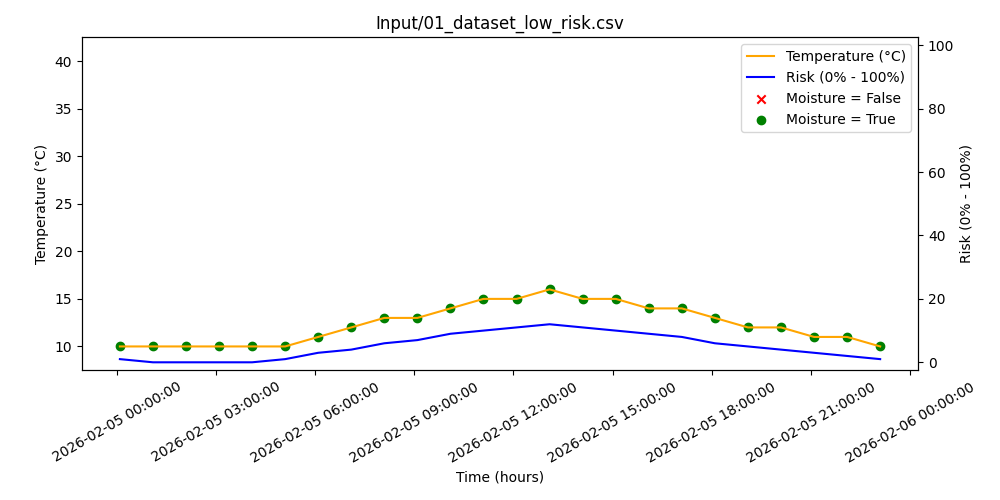
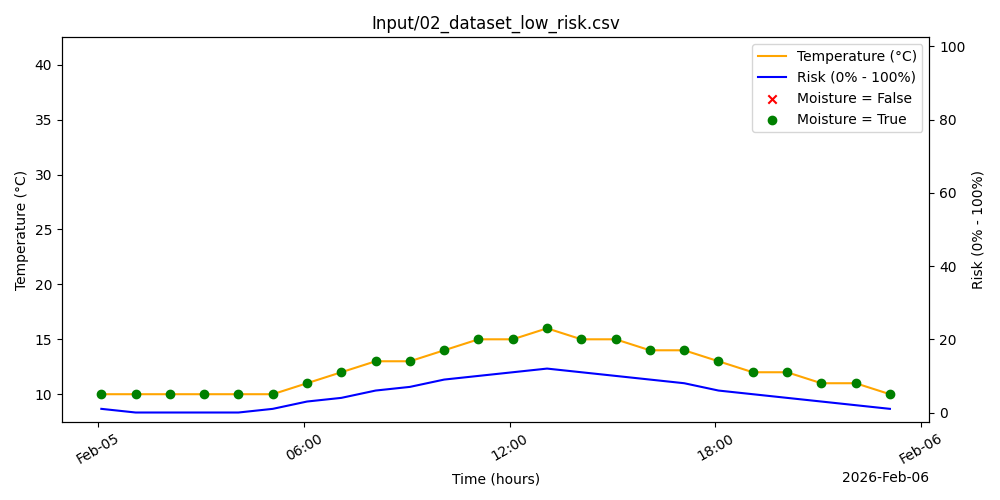
MultiAxesGraph.py: Setups

diff --git a/wildfire_risk.py b/wildfire_risk.py
@@ -64,9 +64,6 @@ def main():
         print("Verbose mode enabled")
         print(f"Current mode is {args.mode}")
 
-
-    print(f"Sampling interval: {args.interval} hours")
-
     if args.mode == "realtime":
         start_realtime_mode(args)
     else:
@@ -91,8 +88,15 @@ def start_realtime_mode(args: Namespace):
     if args.savefig:
         graph_period = seconds_convertor(args.savefig, args.time_units)
 
+    if args.verbose:
+        print(f"Generating one record per {serial_period} seconds")
+        if graph_period:
+            print(f"Generating one image per {graph_period} seconds")
+        else:
+            print("No graphs will be printed")
+
     try:
-        serial_reader = SerialReader(serial_period=serial_period, serial_epsilon=serial_period * (3 / 5), graph_period=graph_period, fieldnames=list(zip(fieldnames, is_digital)),
+        serial_reader = SerialReader(serial_period=serial_period, graph_period=graph_period, fieldnames=list(zip(fieldnames, is_digital)),
                                      expr=r"^[0-9]+,[0-9]+$", verbose=args.verbose)
     except ValueError:
         print("The embedded system (micro:bit) has not been connected.")

diff --git a/Tools/SerialReader.py b/Tools/SerialReader.py
@@ -16,7 +16,7 @@ class SerialReader(Subject):
     _observers: List[Observer] = []
     _graph_observers: List[GraphObserver] = []
 
-    def __init__(self, serial_period: float, serial_epsilon: float, fieldnames: List[Tuple[str, bool]], expr: str, verbose: bool = False, graph_period: float = None):
+    def __init__(self, serial_period: float, fieldnames: List[Tuple[str, bool]], expr: str, verbose: bool = False, graph_period: float = None):
         port = mb_detect.find()
 
         if port:
@@ -24,7 +24,6 @@ class SerialReader(Subject):
         else:
             raise ValueError("Serial port not found!")
         self.serial_period = serial_period
-        self.serial_epsilon = serial_epsilon
         self.graph_period = graph_period
         self.expr = expr
         self.__is_digital = [d for _, d in fieldnames]
@@ -102,5 +101,5 @@ class SerialReader(Subject):
 
 
 if __name__ == "__main__":
-    serial = SerialReader(10, 4, [("utc", False), ("temp", False), ("moist", True), ("risk", False)], r"^[0-9]+,[0-9]+$")
+    serial = SerialReader(10, [("utc", False), ("temp", False), ("moist", True), ("risk", False)], r"^[0-9]+,[0-9]+$")
     serial.read()

diff --git a/Grapher/MultiAxesGraph.py b/Grapher/MultiAxesGraph.py
@@ -20,8 +20,14 @@ class MultiAxesGraph(MatplotlibGraph):
         self._fig, self.ax1 = plt.subplots(figsize=(10, 5))
         self.ax1.tick_params(axis="x", rotation=30)
         self.ax1.set_title(title)
+
+        locator = m_dates.AutoDateLocator(minticks=3, maxticks=7)
+        formatter = m_dates.ConciseDateFormatter(locator)
+
         self.ax1.xaxis.set_major_formatter(m_dates.DateFormatter('%Y-%m-%d %H:%M:%S'))
-        self.ax1.xaxis.set_major_locator(m_dates.DayLocator(interval=7))
+        self.ax1.xaxis.set_major_locator(locator)
+        self.ax1.xaxis.set_major_formatter(formatter)
+
         self._ax2 = self.ax1.twinx()
         self._fieldnames = fieldnames
         self._verbose = verbose
